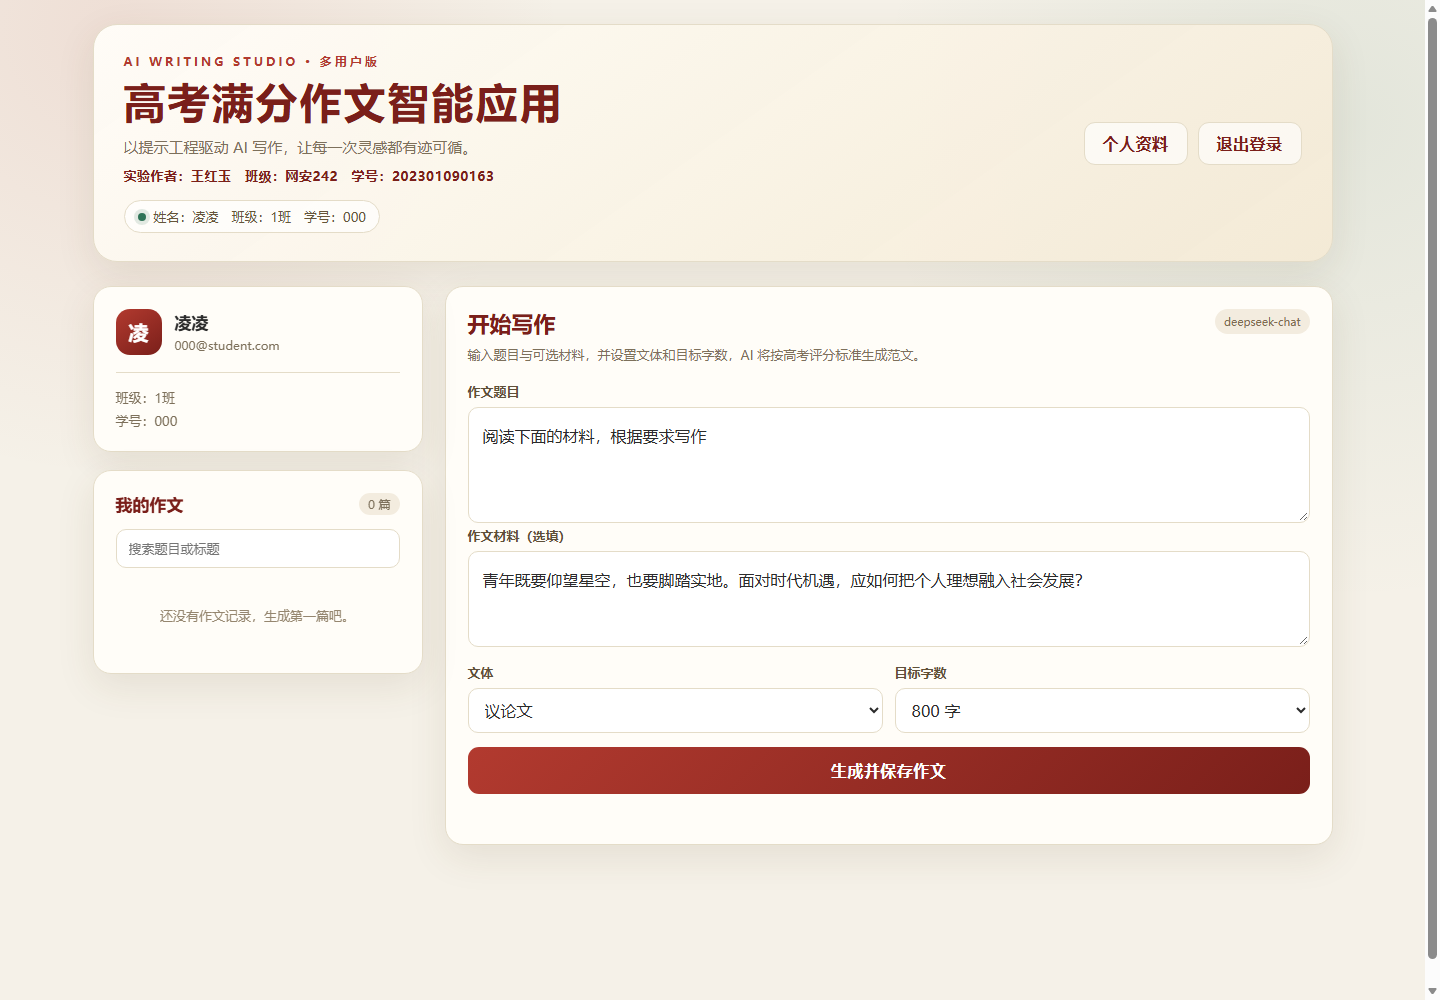
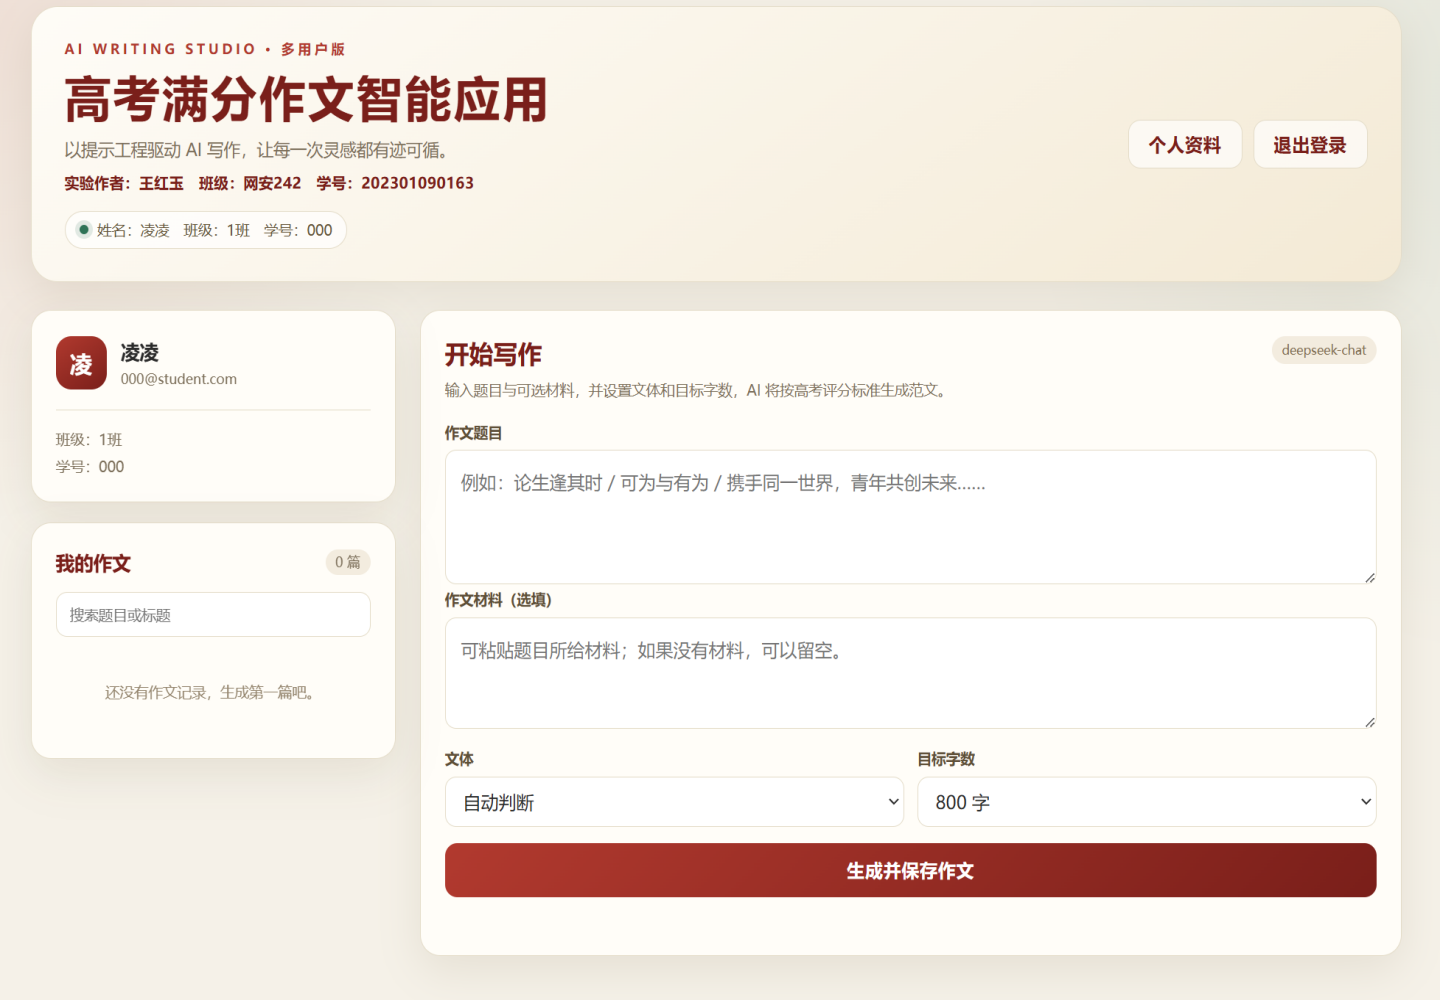
docs: update README and home screenshot

Changed region(s): [[0.0, 0.0, 1.0, 0.961]]

diff --git a/README.md b/README.md
@@ -160,7 +160,7 @@ vercel --prod
 
 ![系统首页](./screenshots/home.png)
 
-输入“青年理想与社会发展”材料后，由 DeepSeek 生成并自动保存作文。结果区同时显示写作策略、程序字数核验、保存状态和 TXT 下载入口：
+输入作文题目及作文材料后，由 DeepSeek 生成并自动保存作文。结果区同时显示写作策略、程序字数核验、保存状态和 TXT 下载入口：
 
 ![生成结果](./screenshots/result.png)
 
